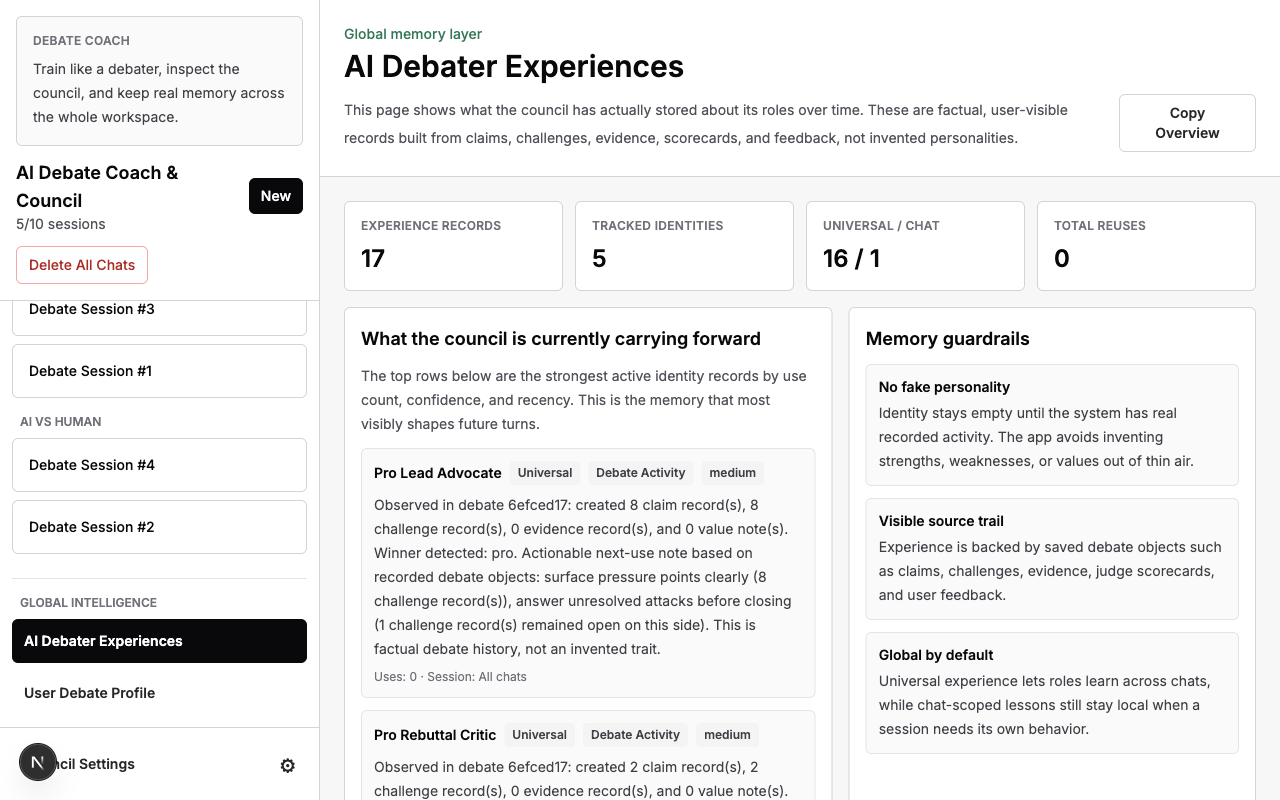
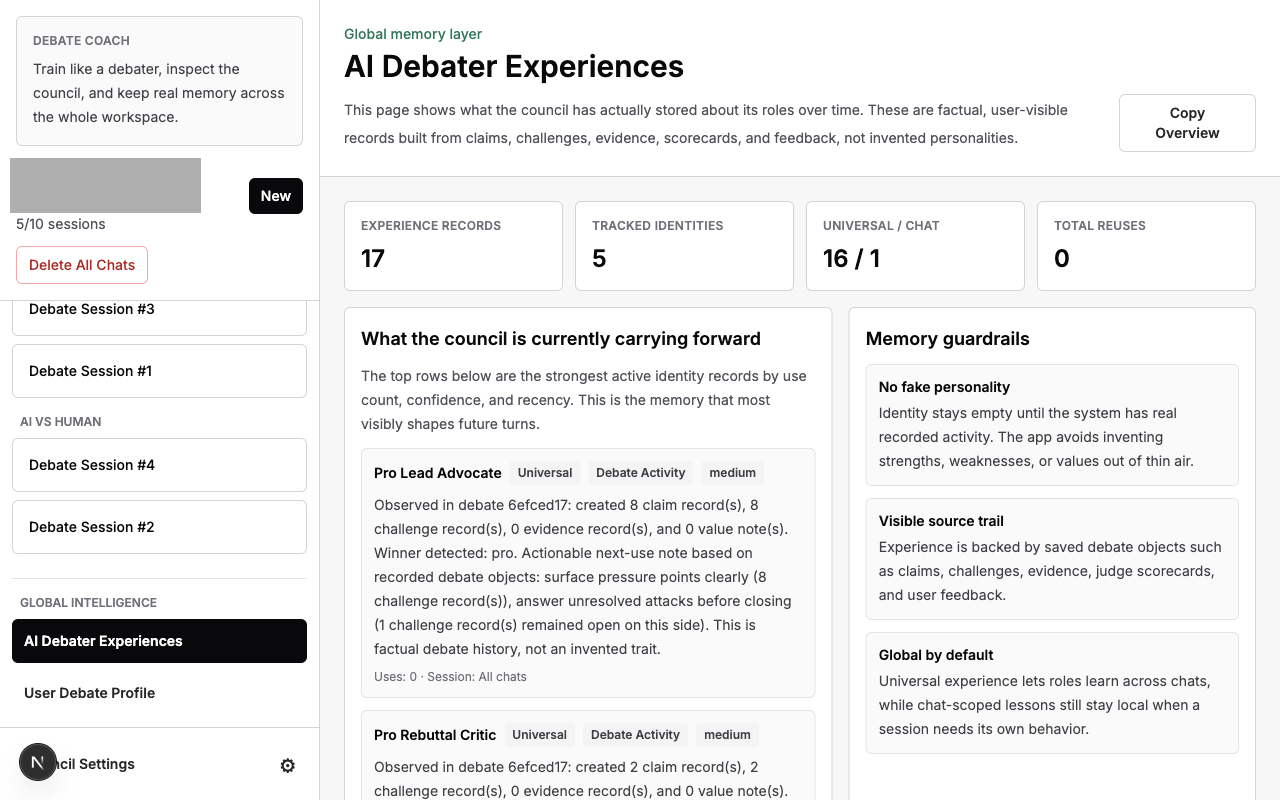
docs: redact screenshots and add architecture/flow diagrams
- Gray-bar redaction over app name in sidebar and mock-model references
- New system architecture diagram (3-layer: client, server, AI providers)
- New debate flow diagram (setup → rounds → judgment → post-debate)

Changed region(s): [[0.0, 0.1875, 0.1562, 0.2812]]

diff --git a/README.md b/README.md
@@ -34,6 +34,20 @@ The backend is Python 3.13, FastAPI, SQLite, WebSockets, and LiteLLM. The fronte
 |-------|------|
 | ![Council Settings](docs/images/council-settings.png) | ![Dark Mode](docs/images/dark-mode.png) |
 
+## Diagrams
+
+### System Architecture
+
+![System Architecture](docs/images/architecture.png)
+
+*Three-layer architecture: Next.js client communicates over HTTP and WebSockets with a FastAPI server backed by SQLite, while a LiteLLM router dispatches LLM calls to five AI providers.*
+
+### Debate Flow
+
+![Debate Flow](docs/images/debate-flow.png)
+
+*End-to-end flow from topic entry through setup, multi-round debate with four specialist roles per team, real-time WebSocket streaming, analytics-weighted judgment, and post-debate intelligence.*
+
 ## Table of Contents
 
 - [Features](#features)
